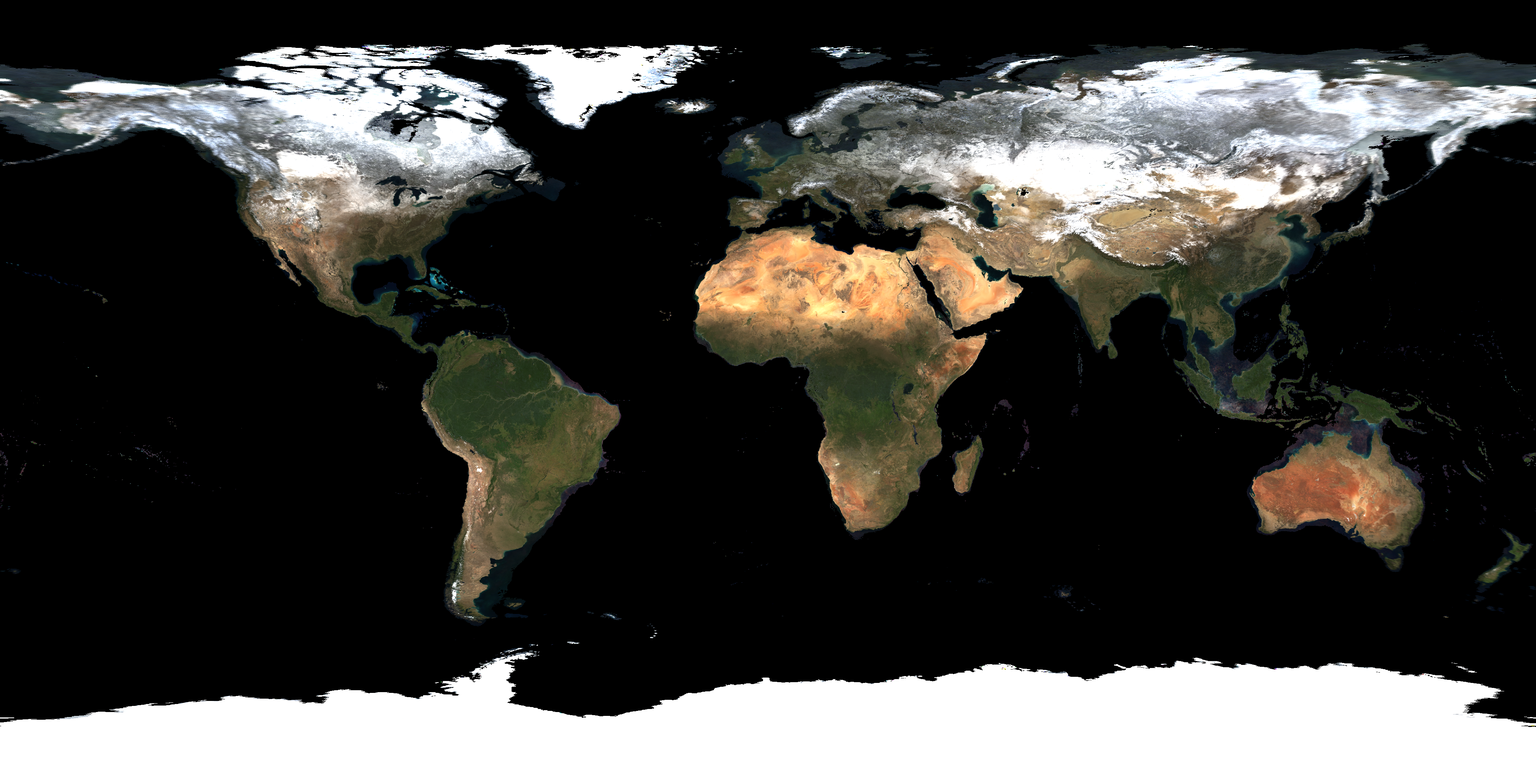
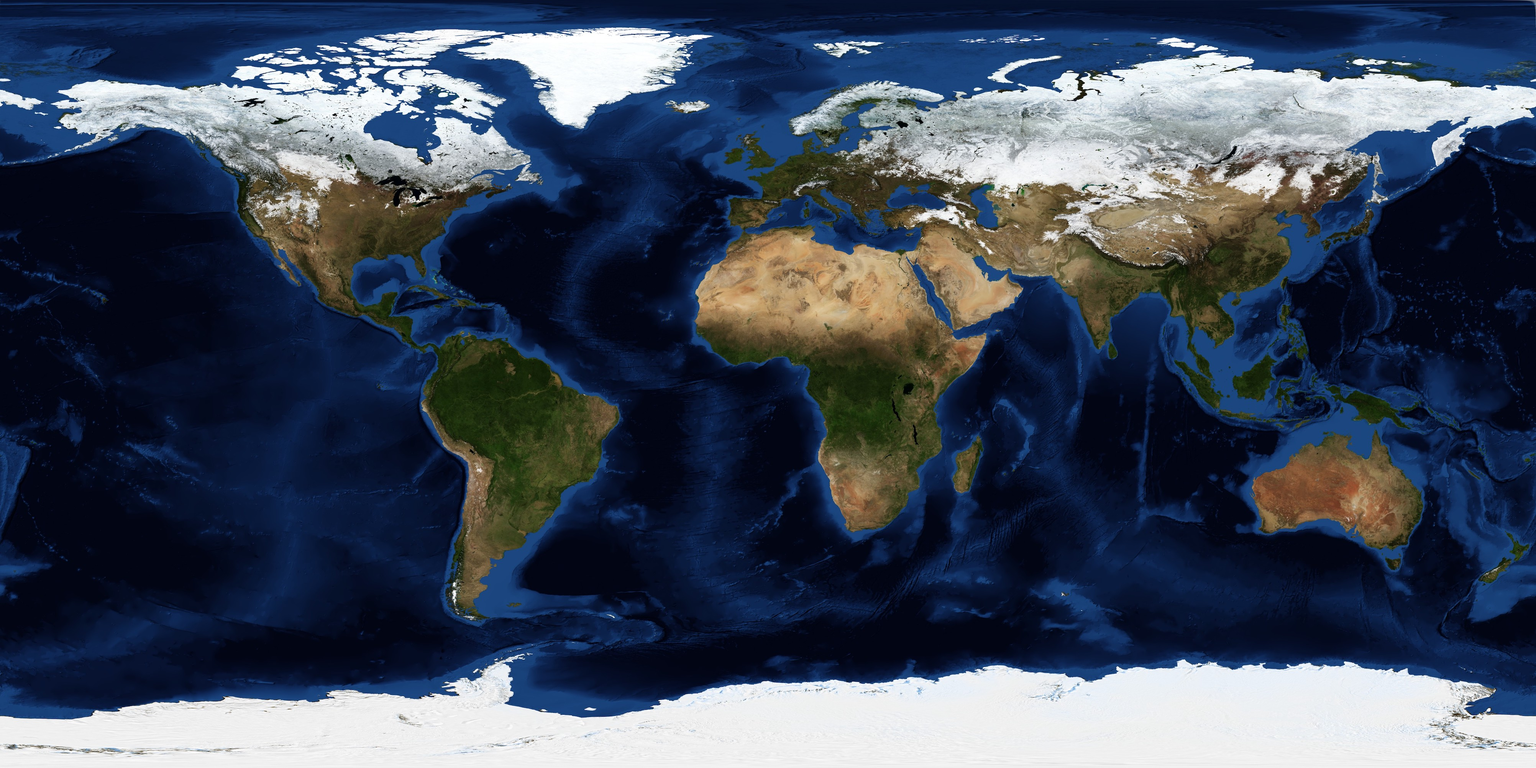
Modified terminator to be blurred and uploaded new land image.

diff --git a/codes/day_night/main.py b/codes/day_night/main.py
@@ -111,6 +111,7 @@ def terminator():
     mask_night = Image.new("L", night.size, 0)
     draw = ImageDraw.Draw(mask_night)
     draw.polygon(terminator, fill=255)
+    mask_night = mask_night.filter(ImageFilter.GaussianBlur(73.4))
     day_night.paste(night, (0, 0), mask_night)
     day_night.rotate(-90, expand=True)
     # day_night.save("day_night.png", quality=95)
